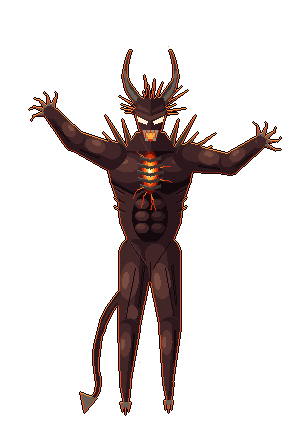
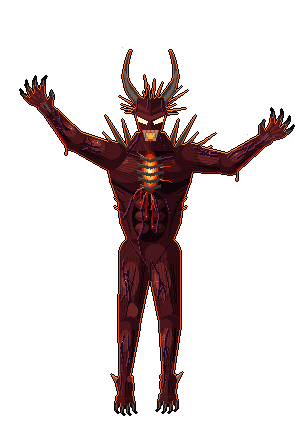
Vael-Orrun bare: no tail, jointed clawed hands and feet, muscle fibre, veins, blood (design only)
Claude-Session: https://claude.ai/code/session_01VdUyUgRi6CvYJeA1opN18c

diff --git a/tools/art/pix2d/vael_ascend.py b/tools/art/pix2d/vael_ascend.py
@@ -212,7 +212,12 @@ def vael_ascend(pose=None, pad=0):
 
 
 # ---- the bare version (Doctor Paris, 2026-11-12): no coat, no crown wound, no fire; naked dark muscled hide
-FLESH = [(20, 10, 14), (44, 24, 28), (66, 37, 39), (90, 53, 50), (122, 76, 66)]
+FLESH = [(18, 5, 9), (46, 12, 18), (74, 21, 27), (106, 35, 37), (148, 62, 54)]   # raw dark muscle
+VEIN = (30, 8, 30)
+VEIN_L = (128, 44, 72)
+SINEW = [(96, 70, 64), (150, 122, 108), (196, 172, 152)]
+CLAW = [(14, 9, 11), (46, 34, 36), (98, 84, 80), (150, 136, 124)]
+BLOOD = [(70, 4, 10), (142, 12, 20), (214, 40, 40), (255, 140, 120)]
 BONE = [(30, 24, 24), (64, 52, 48), (108, 94, 84), (154, 140, 124), (204, 192, 172)]
 
 
@@ -226,7 +231,48 @@ def _nrm(x0, y0, x1, y1):
     return nx, ny, dx / L, dy / L
 
 
-def _mlimb(s, x0, y0, x1, y1, r0, r1, belly=0.38, bk=1.0):
+def _axis(x0, y0, x1, y1, r0, r1, tt, o):
+    nx, ny, _, _ = _nrm(x0, y0, x1, y1)
+    r = r0 + (r1 - r0) * tt
+    return x0 + (x1 - x0) * tt + nx * o * r, y0 + (y1 - y0) * tt + ny * o * r
+
+
+def _darken(s, m, k=0.74):
+    s.rgb[m] = (s.rgb[m] * k).astype(np.uint8)
+
+
+def _fibres(s, m, x0, y0, x1, y1, r0, r1, step=2.6, k=0.74):
+    """Muscle fibre: thin darker striations running the length of the muscle."""
+    rr = (r0 + r1) / 2
+    for o in np.arange(-0.9, 0.95, step / rr):
+        pa = _axis(x0, y0, x1, y1, r0, r1, 0.06, o)
+        pb = _axis(x0, y0, x1, y1, r0, r1, 0.94, o * 0.95)
+        _darken(s, s.capsule(*pa, *pb, 0.45) & m & ~s.glow, k)
+
+
+def _vein(s, m, pts, w=1.0):
+    """A raised vein: dark purple cord with a wet lit edge on its upper-left."""
+    for (x0, y0), (x1, y1) in zip(pts, pts[1:]):
+        s.fill(s.capsule(x0 - 1, y0 - 1, x1 - 1, y1 - 1, w * 0.6) & m, VEIN_L)
+    for (x0, y0), (x1, y1) in zip(pts, pts[1:]):
+        s.fill(s.capsule(x0, y0, x1, y1, w * 0.7) & m, VEIN)
+
+
+def _veins(s, m, x0, y0, x1, y1, r0, r1, n, seed):
+    """Veins snaking along a limb, each with a branch."""
+    rng = np.random.default_rng(seed)
+    for _ in range(n):
+        t0, span = rng.uniform(0.05, 0.35), rng.uniform(0.45, 0.65)
+        o, ph, fq = rng.uniform(-0.5, 0.6), rng.uniform(0, 6.28), rng.uniform(3, 5)
+        pts = [_axis(x0, y0, x1, y1, r0, r1, min(0.97, t0 + span * j / 9), o + 0.16 * math.sin(ph + j * fq / 9)) for j in range(10)]
+        _vein(s, m, pts, 1.1)
+        j0 = int(rng.integers(3, 6))
+        d = rng.choice([-1, 1]) * rng.uniform(0.12, 0.2)
+        br = [pts[j0]] + [_axis(x0, y0, x1, y1, r0, r1, min(0.97, t0 + span * (j0 + j) / 9), o + d * j) for j in range(1, 4)]
+        _vein(s, m, br, 0.7)
+
+
+def _mlimb(s, x0, y0, x1, y1, r0, r1, belly=0.38, bk=1.0, veins=2, seed=0):
     """A hard-muscled limb in flat planes: dark base, lit side, a bulging belly with a hot spot, a seam on the shadow side."""
     m = s.capsule(x0, y0, x1, y1, r0, r1)
     s.fill(m, FLESH[1])
@@ -243,52 +289,114 @@ def _mlimb(s, x0, y0, x1, y1, r0, r1, belly=0.38, bk=1.0):
     for o in (0.45, 0.55):
         s.line(bx - ux * L * 0.22 - nx * r * o, by - uy * L * 0.22 - ny * r * o,
                bx + ux * L * 0.34 - nx * r * o, by + uy * L * 0.34 - ny * r * o, FLESH[0])     # the seam under the belly
+    _fibres(s, m, x0, y0, x1, y1, r0, r1)
+    _veins(s, m, x0, y0, x1, y1, r0, r1, veins, seed)
+    s.px(bx + nx * r * 0.6, by + ny * r * 0.6, (236, 160, 140))                                   # a wet glint
     return m
 
 
-def _bclaw(s, hx, hy, ang, n=5, ln=17):
-    """A spread hand: a knuckled palm and long hooked bone claws."""
-    s.fill(s.ellipse(hx, hy, 7, 6, ang), FLESH[2])
-    s.fill(s.ellipse(hx - 1, hy - 2, 4, 3, ang), FLESH[3])
-    for k in range(n):
-        a = ang - 1.1 + k * 0.55
-        mx, my = hx + math.cos(a) * 8, hy + math.sin(a) * 8
-        fx, fy = hx + math.cos(a) * ln, hy + math.sin(a) * ln
-        s.fill(s.capsule(hx, hy, mx, my, 2.6, 2), FLESH[2])                                    # finger
-        s.fill(s.capsule(mx, my, fx, fy, 2, 0.6), BONE[2])                                      # claw
-        s.line(fx, fy, fx + math.cos(a - 0.7) * 5, fy + math.sin(a - 0.7) * 5, BONE[3])          # the hook
+def _hand(s, hx, hy, ang, seed=0):
+    """A big clawed hand, palm out: thumb, four jointed fingers curling slightly, black hooked talons, tendons."""
+    ux, uy = math.cos(ang), math.sin(ang)
+    px_, py_ = hx + ux * 7, hy + uy * 7
+    palm = s.ellipse(px_, py_, 9, 7.5, ang)
+    s.fill(palm, FLESH[2])
+    s.a |= palm
+    s.fill(s.ellipse(px_ - 1.5, py_ - 2, 5, 3.5, ang) & palm, FLESH[3])
+    for side in (-1, 1):                                                                       # the thumb, toward the body
+        tx = math.cos(ang + side * 1.25)
+        if (hx < 150) == (tx > 0):
+            break
+    ta = ang + side * 1.05
+    tb = (px_ + math.cos(ang + side * 1.5) * 6, py_ + math.sin(ang + side * 1.5) * 6)
+    tm = (tb[0] + math.cos(ta) * 7, tb[1] + math.sin(ta) * 7)
+    s.fill(s.capsule(*tb, *tm, 3.2, 2.4), FLESH[2])
+    s.a |= s.capsule(*tb, *tm, 3.2, 2.4)
+    tt = (tm[0] + math.cos(ta - side * 0.5) * 6, tm[1] + math.sin(ta - side * 0.5) * 6)
+    s.fill(s.capsule(*tm, *tt, 1.8, 0.5), CLAW[1])
+    s.line(tm[0], tm[1], tt[0], tt[1], CLAW[2])
+    for k, sp in enumerate((-0.5, -0.17, 0.16, 0.48)):                                         # four fingers
+        fa = ang + sp
+        kx, ky = px_ + math.cos(fa) * 8, py_ + math.sin(fa) * 8                                  # knuckle
+        L1, L2 = (9, 7) if k in (1, 2) else (8, 6)
+        mx, my = kx + math.cos(fa) * L1, ky + math.sin(fa) * L1
+        ca = fa + side * 0.38                                                                    # curling in
+        ex, ey = mx + math.cos(ca) * L2, my + math.sin(ca) * L2
+        for (a0, b0, a1, b1, r0, r1, tone) in ((kx, ky, mx, my, 3.3, 2.8, FLESH[2]), (mx, my, ex, ey, 2.8, 2.2, FLESH[2])):
+            mm = s.capsule(a0, b0, a1, b1, r0, r1)
+            s.fill(mm, tone)
+            s.a |= mm
+        s.fill(s.capsule(kx - 0.6, ky - 0.8, mx - 0.6, my - 0.8, 1.0), FLESH[3])
+        s.px(kx, ky, FLESH[4])                                                                   # knuckle
+        s.px(mx, my, FLESH[3])
+        s.line(hx, hy, kx, ky, SINEW[0])                                                         # tendon on the back of the hand
+        ta2 = ca + side * 0.45                                                                   # the talon, hooked
+        c1 = (ex + math.cos(ca) * 5, ey + math.sin(ca) * 5)
+        c2 = (c1[0] + math.cos(ta2) * 5, c1[1] + math.sin(ta2) * 5)
+        s.fill(s.capsule(ex, ey, *c1, 1.9, 1.3), CLAW[1])
+        s.fill(s.capsule(*c1, *c2, 1.3, 0.4), CLAW[0])
+        s.line(ex, ey, c1[0], c1[1], CLAW[2])
+        s.px(ex - 0.5, ey - 0.5, CLAW[3])
+    _vein(s, s.a, [(hx - ux * 6, hy - uy * 6 + 1), (hx + ux * 2, hy + uy * 2 + 2), (px_ + ux * 3, py_ + uy * 3 + 1)], 0.8)
+
+
+def _foot(s, ax, ay, fs):
+    """A clawed demon foot hanging toes-down: ankle knob, heel spur, tendons down the instep, four taloned toes."""
+    s.fill(s.poly([(ax + fs * 4, ay + 2), (ax + fs * 14, ay - 4), (ax + fs * 8, ay + 8)]), BONE[2])     # heel spur
+    s.line(ax + fs * 5, ay + 2, ax + fs * 13, ay - 3, BONE[3])
+    heel = s.ellipse(ax + fs * 3, ay + 6, 6, 7)
+    s.fill(heel, FLESH[1])
+    inst = s.poly([(ax - 7, ay - 2), (ax + 7, ay - 2), (ax + 8, ay + 10), (ax + 6, ay + 20), (ax - 6, ay + 20), (ax - 8, ay + 10)])
+    s.fill(inst, FLESH[1])
+    s.fill(s.poly([(ax - 7, ay - 2), (ax, ay - 2), (ax - 1, ay + 20), (ax - 6, ay + 20), (ax - 8, ay + 10)]), FLESH[2])
+    s.a |= heel | inst
+    s.fill(s.ellipse(ax - fs * 5, ay + 1, 3, 3), FLESH[3])                                      # ankle knob
+    for k in (-3, 0, 3):                                                                       # tendons down the instep
+        s.line(ax + k, ay + 4, ax + k * 1.3, ay + 17, FLESH[3 if k < 0 else 0])
+    for k, (dx, ln) in enumerate(((-6, 7), (-2, 9), (2, 9), (6, 7))):                          # toes, splayed a little
+        bx, by = ax + dx, ay + 19
+        tx, ty = bx + dx * 0.35, by + ln
+        mm = s.capsule(bx, by, tx, ty, 2.6, 2.0)
+        s.fill(mm, FLESH[2] if dx < 0 else FLESH[1])
+        s.a |= mm
+        s.px(bx - 1, by + 1, FLESH[3])
+        cx_, cy_ = tx + dx * 0.15, ty + 6                                                      # talon, curling under
+        s.fill(s.capsule(tx, ty, cx_, cy_, 1.8, 1.0), CLAW[1])
+        s.fill(s.capsule(cx_, cy_, cx_ - fs * 2.5, cy_ + 3, 1.0, 0.4), CLAW[0])
+        s.line(tx - 0.6, ty, cx_ - 0.6, cy_, CLAW[2])
+    _vein(s, s.a, [(ax - 4, ay - 6), (ax - 3, ay + 4), (ax - 5, ay + 12)], 0.8)
+
+
+def _drip(s, x, y, ln, seed=0):
+    """A run of blood with a bead at the end."""
+    s.line(x, y, x, y + ln, BLOOD[1])
+    s.px(x - 1, y + 1, BLOOD[2])
+    s.fill(s.ellipse(x, y + ln + 1, 1.3, 1.8), BLOOD[1])
+    s.px(x - 0.4, y + ln, BLOOD[3])
 
 
 def vael_bare(pose=None, pad=0):
     """Vael-Orrun, bare: the same floating pose, stripped to a naked hide of dark, hard muscle."""
     s = Sprite(300, 440, pose, pad, origin=(0, 40))
     cx = 150
-    # ---- a thin tail, curling down behind the far leg, a barb at the tip
-    s.g("tail", 146, 232)
-    tl = _curve((146, 232), (92, 268), (96, 330), 14) + _curve((96, 330), (102, 354), (88, 360), 6)[1:]
-    s.fill(_ribbon(s, tl, 4.5, 1.4), FLESH[1])
-    s.fill(_ribbon(s, tl[:10], 2.0, 0.8), FLESH[2])
-    s.fill(s.poly([(80, 352), (96, 358), (84, 372)]), BONE[2])
     # ---- hips, under the thighs
     s.g("body")
     hips = s.poly([(128, 194), (172, 194), (178, 214), (150, 234), (122, 214)])
     s.fill(hips, FLESH[1])
     s.a |= hips
     # ---- legs: heavy thighs, long hanging shins, clawed feet pointed down
-    for grp, sub, (hx, hy), (kx, ky), (ax, ay), fs in (("leg_f", "shin_f", (137, 214), (129, 286), (125, 346), -1),
-                                                       ("leg_n", "shin_n", (163, 214), (170, 284), (168, 344), 1)):
+    for grp, sub, (hx, hy), (kx, ky), (ax, ay), fs in (("leg_f", "shin_f", (137, 214), (129, 284), (125, 338), -1),
+                                                       ("leg_n", "shin_n", (163, 214), (170, 282), (168, 336), 1)):
         s.g(grp, hx, hy)
-        _mlimb(s, hx, hy, kx, ky, 18, 11, belly=0.38)
+        _mlimb(s, hx, hy, kx, ky, 18, 11, belly=0.38, veins=2, seed=hx + 3)
         s.fill(s.ellipse(kx - fs * 3, ky - 13, 6, 8) & s.capsule(hx, hy, kx, ky, 18, 11), FLESH[3 if fs < 0 else 2])  # teardrop above the knee
         s.line(hx + fs * 2, hy + 14, kx + fs * 4, ky - 6, FLESH[0])                            # the split between the thigh muscles
         s.g(sub, kx, ky, grp)
         s.fill(s.ellipse(kx, ky, 10, 8), FLESH[2])
         s.fill(s.ellipse(kx - 2, ky - 1, 5, 4), FLESH[3])                                        # kneecap
-        _mlimb(s, kx, ky + 4, ax, ay, 11, 5, belly=0.26, bk=0.85)                                # calf
-        s.fill(s.poly([(ax - 5, ay - 2), (ax + 5, ay - 2), (ax + 3, ay + 16), (ax - 1, ay + 20)]), FLESH[1])
-        s.fill(s.poly([(ax - 4, ay - 2), (ax, ay - 2), (ax - 1, ay + 16)]), FLESH[2])
-        for k in (-3, 0, 3):                                                                     # toe claws hanging
-            s.fill(s.poly([(ax + k - 1.5, ay + 16), (ax + k + 1.5, ay + 16), (ax + k, ay + 28 - abs(k))]), BONE[2])
+        _mlimb(s, kx, ky + 4, ax, ay, 11, 5.5, belly=0.26, bk=0.85, veins=2, seed=kx)          # calf
+        s.line(ax + fs * 4, ay - 14, ax + fs * 3, ay, FLESH[3])                                  # the heel tendon
+        _foot(s, ax, ay, fs)
     s.g("body")
     s.line(150, 222, 150, 240, FLESH[0])                                                         # the crease between the thighs
     # ---- torso: a broad V of muscle, the sternum split on molten light behind bars of rib
@@ -325,6 +433,22 @@ def vael_bare(pose=None, pad=0):
         for o in (0, 1, 2):
             s.line(150 + sgn * 2, 146 + o, 150 + sgn * 18, 152 + o, FLESH[0])
             s.line(150 + sgn * 18, 152 + o, 150 + sgn * 40, 140 + o, FLESH[0])
+    for sgn in (-1, 1):                                                                          # fibre fanning across the pecs
+        pec = s.poly([(150 + sgn * 2, 110), (150 + sgn * 46, 112), (150 + sgn * 40, 140), (150 + sgn * 18, 152), (150 + sgn * 2, 146)])
+        for j in range(12):
+            _darken(s, s.capsule(150 + sgn * 3, 112 + j * 3.2, 150 + sgn * 46, 111 + j * 1.6, 0.45) & pec)
+        obl = s.poly([(150 + sgn * 34, 150), (150 + sgn * 20, 158), (150 + sgn * 18, 198), (150 + sgn * 22, 202), (150 + sgn * 30, 182)])
+        for j in range(6):
+            _darken(s, s.capsule(150 + sgn * (36 - j * 2), 150 + j * 3, 150 + sgn * (20 - j * 0.4), 176 + j * 5, 0.45) & obl)
+    for pts in (((141, 150), (133, 158), (128, 172), (121, 184)), ((159, 150), (167, 160), (171, 174), (178, 182)),
+                ((140, 118), (128, 114), (116, 118), (108, 114)), ((160, 120), (172, 118), (184, 122)),
+                ((146, 156), (142, 170), (144, 186), (139, 200), (142, 214)), ((156, 158), (160, 176), (157, 194))):
+        _vein(s, torso | hips, list(pts), 1.1)                                                   # veins swollen black around the core
+    for x, y0, ln in ((147, 154, 22), (153, 156, 30), (141, 150, 12)):                          # blood running from the open chest
+        s.fill(s.capsule(x, y0, x - 1, y0 + ln, 0.8), BLOOD[1])
+        s.px(x - 1, y0 + 2, BLOOD[2])
+        s.fill(s.ellipse(x - 1, y0 + ln + 1, 1.3, 1.8), BLOOD[1])
+        s.px(x - 1.4, y0 + ln, BLOOD[3])
     core = s.ellipse(150, 132, 9, 22)
     for r, col in ((1.0, HOT[0]), (0.8, HOT[1]), (0.6, HOT[2]), (0.4, HOT[3]), (0.22, HOT[4]), (0.1, HOT[5])):
         s.fill(s.ellipse(150, 132, 9 * r + 0.5, 22 * r + 0.5) & core, col, glow=True)
@@ -357,6 +481,11 @@ def vael_bare(pose=None, pad=0):
     s.fill(s.poly([(136, 92), (164, 92), (176, 110), (124, 110)]), FLESH[1])
     s.fill(s.poly([(136, 92), (150, 92), (150, 110), (124, 110)]), FLESH[2])
     s.line(140, 96, 148, 112, FLESH[3])
+    neck = s.poly([(136, 92), (164, 92), (176, 110), (124, 110)])
+    for j in range(7):                                                                           # neck cords and fibre
+        _darken(s, s.capsule(138 + j * 4, 92, 128 + j * 7, 110, 0.45) & neck)
+    _vein(s, neck, [(140, 93), (138, 100), (133, 106), (130, 110)], 1.1)
+    _vein(s, neck, [(160, 94), (163, 102), (168, 109)], 1.0)
     # ---- head: a long demon skull of dark hide, heavy brow, horns, a wild mane behind
     s.g("head", cx, 104)
     mrng = np.random.default_rng(17)
@@ -382,6 +511,9 @@ def vael_bare(pose=None, pad=0):
     s.pxs([(cx - 12, 77), (cx + 12, 77), (cx - 10, 82), (cx + 10, 82)], HOT[3], glow=True)
     s.line(cx - 11, 86, cx - 6, 92, FLESH[3])                                                   # cheekbones
     s.line(cx + 11, 86, cx + 6, 92, FLESH[0])
+    _vein(s, head, [(cx - 14, 72), (cx - 12, 66), (cx - 13, 61)], 0.8)                          # temples throbbing
+    _vein(s, head, [(cx + 14, 72), (cx + 12, 66), (cx + 13, 61)], 0.8)
+    _vein(s, head, [(cx - 2, 60), (cx - 1, 66), (cx - 3, 70)], 0.7)
     s.g("jaw", cx, 90, "head")
     s.fill(s.poly([(cx - 8, 90), (cx + 8, 90), (cx + 5, 99), (cx, 101), (cx - 5, 99)]), HOT[1], glow=True)   # a maw of embers
     s.fill(s.poly([(cx - 4, 93), (cx + 4, 93), (cx + 2, 98), (cx - 2, 98)]), HOT[3], glow=True)
@@ -397,12 +529,24 @@ def vael_bare(pose=None, pad=0):
         s.a |= s.ellipse(sx, sy - 2, 17, 13)
         s.fill(s.ellipse(sx - 2, sy - 5, 12, 8), FLESH[2])
         s.fill(s.ellipse(sx - 4, sy - 8, 7, 3.5), FLESH[3 if sx < cx else 2])
-        _mlimb(s, sx, sy, ex, ey, 14, 10, belly=0.45)
+        _fibres(s, s.ellipse(sx, sy - 2, 17, 13), sx - 14, sy - 8, sx + 8, sy + 10, 8, 8)
+        _mlimb(s, sx, sy, ex, ey, 14, 10, belly=0.45, veins=2, seed=sx)
         s.g(sub, ex, ey, grp)
-        _mlimb(s, ex, ey, hx, hy, 11, 7, belly=0.3, bk=0.9)
-        _bclaw(s, hx, hy, math.atan2(hy - ey, hx - ex))
+        fm = _mlimb(s, ex, ey, hx, hy, 11, 7, belly=0.3, bk=0.9, veins=3, seed=ex)
+        _hand(s, hx, hy, math.atan2(hy - ey, hx - ex))
+        p0 = _axis(ex, ey, hx, hy, 11, 7, 0.9, -0.75)                                            # blood running back down the forearm
+        p1 = _axis(ex, ey, hx, hy, 11, 7, 0.45, -0.8)
+        p2 = _axis(ex, ey, hx, hy, 11, 7, 0.05, -0.85)
+        for (a0, b0), (a1, b1) in ((p0, p1), (p1, p2)):
+            s.fill(s.capsule(a0, b0, a1, b1, 0.8) & fm, BLOOD[1])
+        _drip(s, p2[0], p2[1] + 1, 7)
     # ---- backlight: every edge still burns against the red sky behind him
     s.g("body")
+    claw = np.zeros_like(s.a)
+    for c in CLAW:
+        claw |= np.all(s.rgb == np.array(c, np.uint8), axis=-1)
+    claw &= s.a
+    keep = s.rgb[claw].copy()
     a = s.a & ~s.glow
     up = a & ~np.roll(s.a, 1, 0)
     dn = a & ~np.roll(s.a, -1, 0)
@@ -411,6 +555,7 @@ def vael_bare(pose=None, pad=0):
     s.rgb[dn] = RIM_B
     s.rgb[(lf | rt) & ~up] = RIM_S
     s.rgb[up] = RIM_T
+    s.rgb[claw] = keep                                                                           # talons stay black
     s.ink(INK)
     _dust(s, 40, 3, [HOT[1], HOT[2], HOT[3]])
     s.shadow(150, 404, 40, 3)
